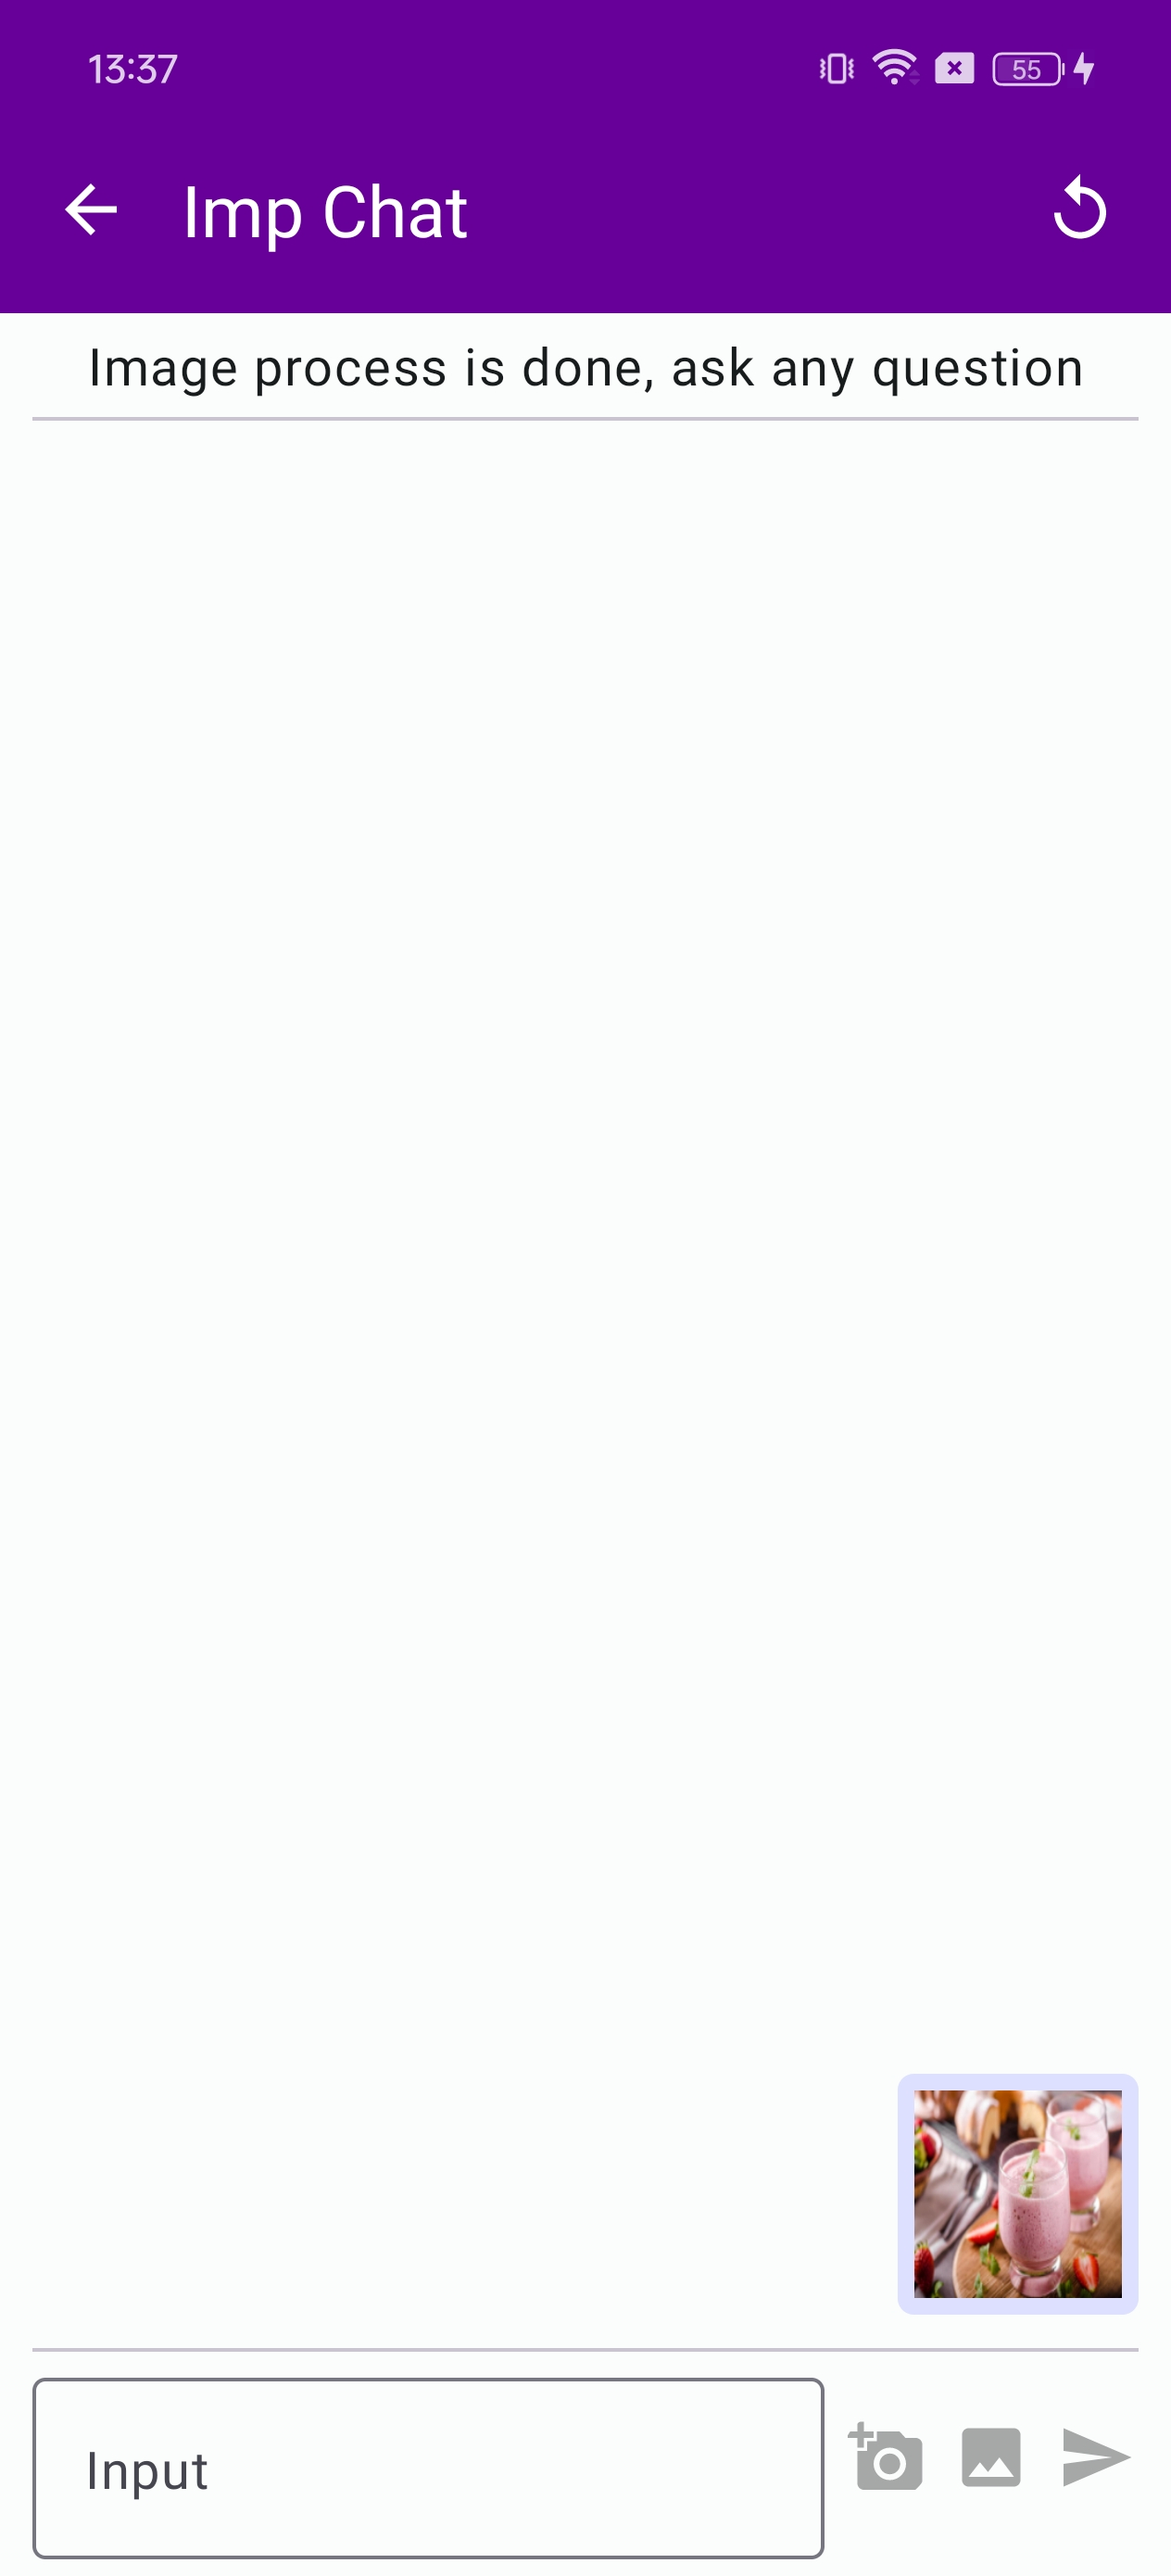
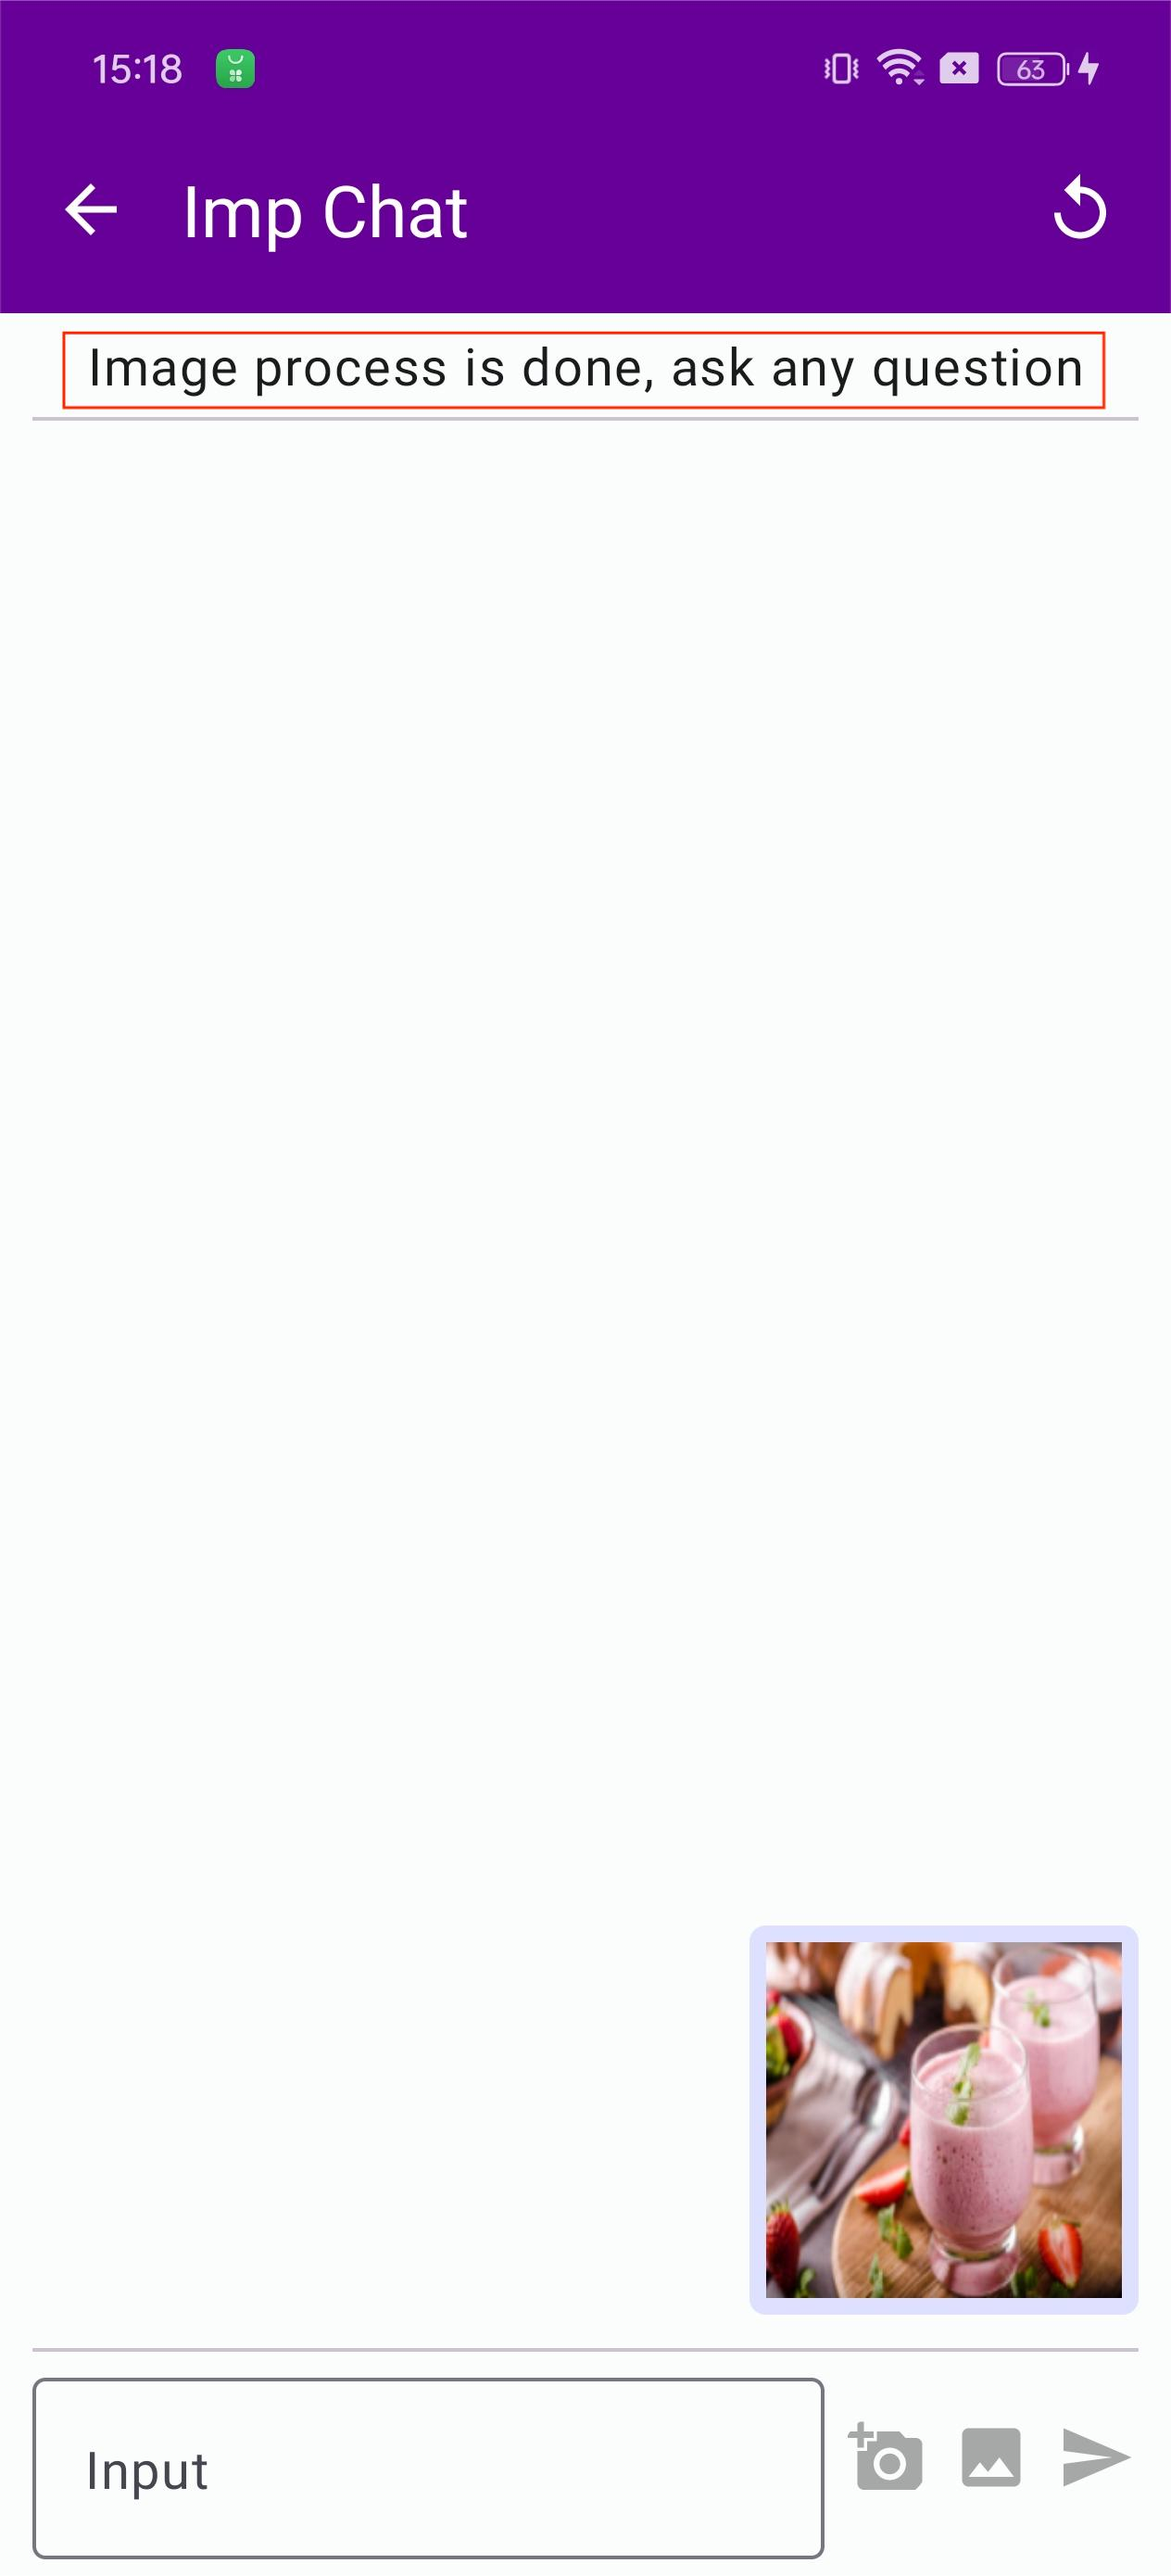
update 5-22

diff --git a/README.md b/README.md
@@ -1,6 +1,6 @@
 # 😈 MLC-Imp
 
-🙌 Hi There! This is a lightweight deployment solution for Imp based on [MLC-LLM](https://github.com/mlc-ai/mlc-llm) and [MLC-MiniCPM](https://github.com/OpenBMB/mlc-MiniCPM). We deployed Imp on mobile devices📱and greatly improved the running speed🚀 during model inference.
+🙌 Hi there! This is a lightweight deployment solution for Imp based on [MLC-LLM](https://github.com/mlc-ai/mlc-llm) and [MLC-MiniCPM](https://github.com/OpenBMB/mlc-MiniCPM). We deployed Imp on mobile devices📱and greatly improved the running speed🚀 during model inference.
 
 ## Model Description
 
@@ -25,18 +25,21 @@
     <img src="assets/download3.jpg" width="350">
 </div>
 
-3. Chat with Imp: (1) Wait for model initialization until "Ready to chat" pop up. (2) Upload image (3) Type and send question
+3. Chat with Imp: (1) Wait for model initialization until "Ready to chat" pop up. (2) Upload image (3) Wait until "process image done" show up (4) Type and send question
     - Chat mode: **Text** or **Vision** are both support
+    - Note：image process may take some time.
 <div>
-    <img src="assets/chat1.jpg" width="350">
-    <img src="assets/chat2.jpg" width="350">
+    <img src="assets/chat1.jpg" width="200">
+    <img src="assets/chat2.jpg" width="200">
+    <img src="assets/chat3.jpg" width="200">
+
 </div>
 
 4. Demo 
 
 <div>
-    <img src="assets/chat3.jpg" width="250">
-    <img src="assets/chat4.jpg" width="250">
+    <img src="assets/demo1.gif" width="300">
+    <img src="assets/demo2.gif" width="300">
 </div>
 
 ### Prepare Enviroment
